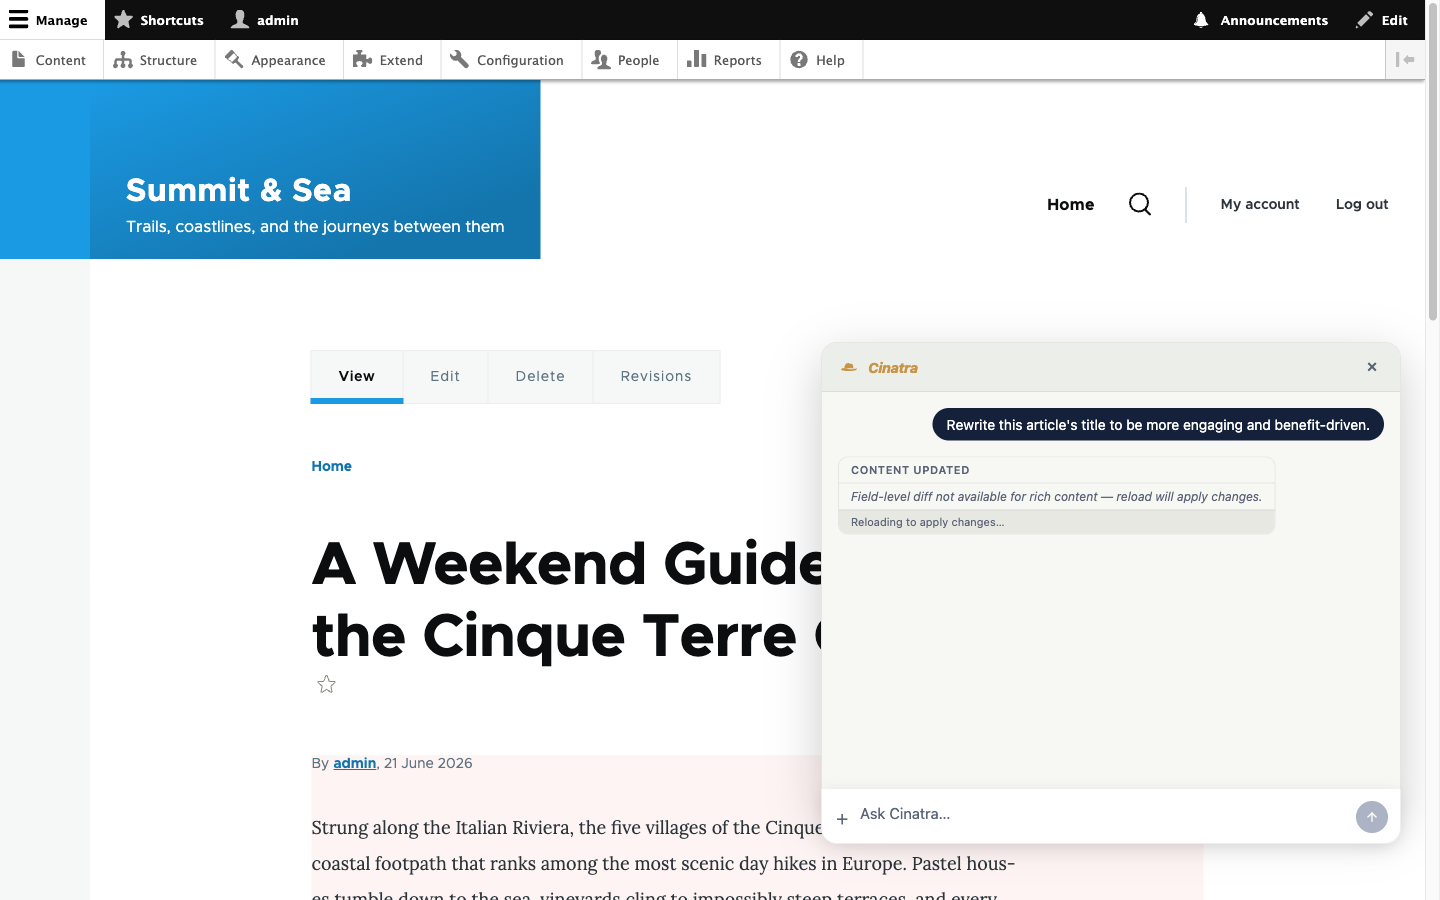
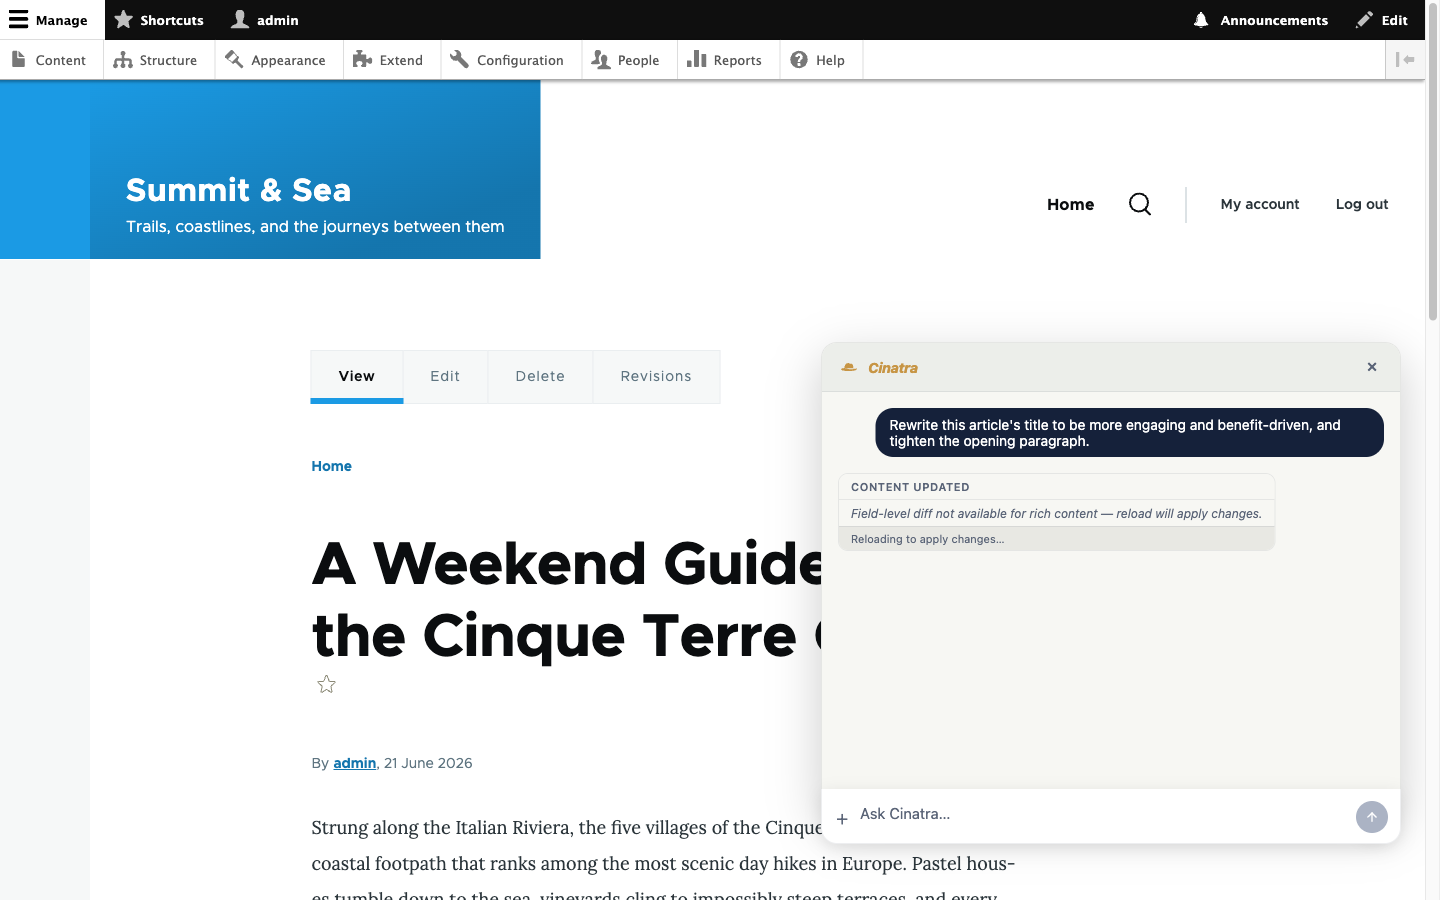
drupalorg: 3 real screenshots (assistant in action, sign-in, connect) + captions
Final drupal.org project-page listing for sign-off. Added the per-user
sign-in capture (screenshot-login.png) and refreshed screenshot-in-action.png
to the canonical capture; embedded all three in project-page.md (in-action,
sign-in, connect order) with captions + alt text, and updated the
screenshots-files reference section to match. All three are genuine live
Drupal + Cinatra captures.

Assisted-by: claude (claude-opus-4-8)

Changed region(s): [[0.5938, 0.4356, 0.9688, 0.6222]]

diff --git a/.drupalorg/project-page.md b/.drupalorg/project-page.md
@@ -132,18 +132,24 @@ instance's own privacy terms cover this data; see <https://www.cinatra.ai>.
 
 ### Screenshots
 
+**The assistant in action.** The Cinatra assistant panel open on a node page,
+rewriting the article's title on request and applying the change back to the
+content.
+
+![Cinatra AI assistant panel open beside a Drupal article, rewriting the title and updating the content.](images/screenshot-in-action.png)
+
+**Sign in with your Cinatra account.** The assistant asks each person to sign in
+with their own Cinatra account, so it only does what that user is already allowed
+to do on the site.
+
+![Cinatra sign-in window in Drupal with a "Sign in with Cinatra" button.](images/screenshot-login.png)
+
 **Connect to your Cinatra instance.** The **Configuration → Web services →
 Cinatra** settings page: enter your instance's web address and click **Connect
 with Cinatra** — the integration credential is provisioned automatically, so you
 never copy or paste a key.
 
 ![Cinatra settings page in Drupal showing the instance URL field and the Connect with Cinatra button.](images/screenshot-connect.png)
-
-**The assistant in action.** The Cinatra assistant panel open on a node page,
-rewriting the article's title on request and applying the change back to the
-content.
-
-![Cinatra AI assistant panel open beside a Drupal article, rewriting the title and updating the content.](images/screenshot-in-action.png)
 
 ### What's new since 0.1.0
 
@@ -221,17 +227,23 @@ time, attach them to the project page's Images field (or keep them inline in the
 body as above). Like the logo, they are export-ignored and never ship in the
 release tarball.
 
-1. **`screenshot-connect.png` — connect to your Cinatra instance.**
-   The **Configuration → Web services → Cinatra** admin settings page, showing
-   the instance-address field and the **Connect with Cinatra** button.
-   - *Alt text:* "Cinatra settings page in Drupal showing the instance URL field
-     and the Connect with Cinatra button."
-
-2. **`screenshot-in-action.png` — the assistant in action.**
+1. **`screenshot-in-action.png` — the assistant in action.**
    The Cinatra assistant panel open on a node page, rewriting the article's
    title on request and applying the change back to the content.
    - *Alt text:* "Cinatra AI assistant panel open beside a Drupal article,
      rewriting the title and updating the content."
+
+2. **`screenshot-login.png` — sign in with your Cinatra account.**
+   The Cinatra sign-in window the assistant shows so each person works with their
+   own Cinatra account and their own permissions.
+   - *Alt text:* "Cinatra sign-in window in Drupal with a Sign in with Cinatra
+     button."
+
+3. **`screenshot-connect.png` — connect to your Cinatra instance.**
+   The **Configuration → Web services → Cinatra** admin settings page, showing
+   the instance-address field and the **Connect with Cinatra** button.
+   - *Alt text:* "Cinatra settings page in Drupal showing the instance URL field
+     and the Connect with Cinatra button."
 
 **Screenshot conventions:** PNG; hide real instance addresses; keep each image's
 longest edge reasonable so the page stays light. Store final screenshots under